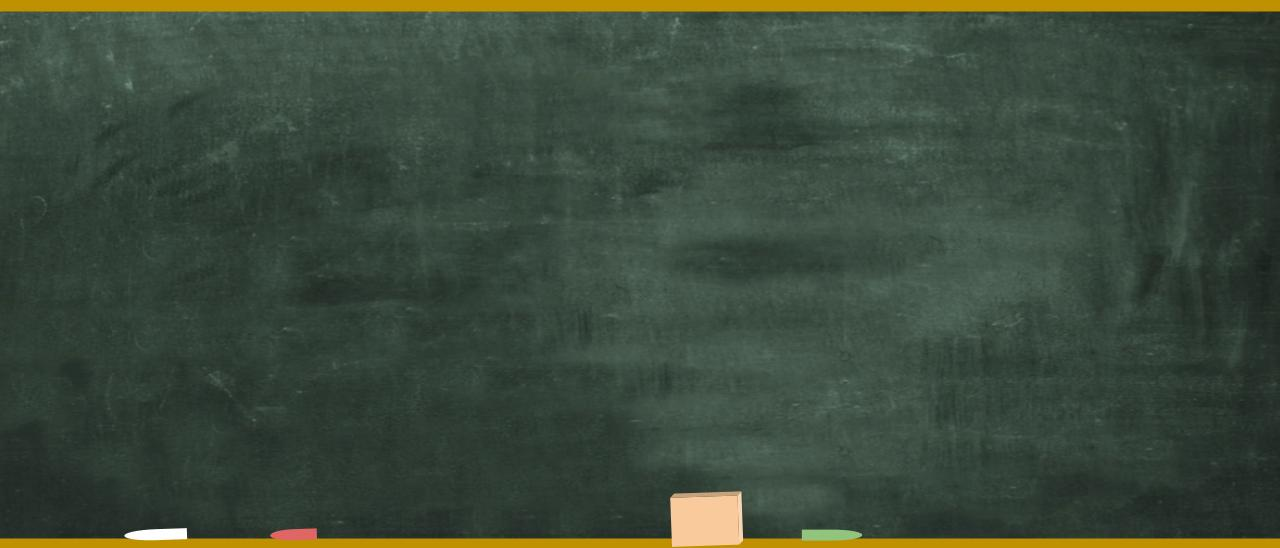
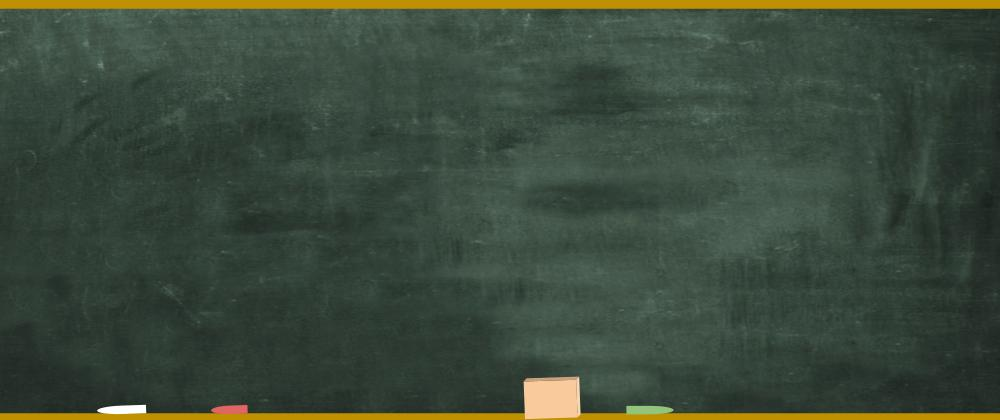
smaller blackboard

diff --git a/manifesto.html b/manifesto.html
@@ -28,12 +28,6 @@
             <p class="chalk-body mt-2">
                 We distinguish ourselves from the pack not just to look interesting, but to remain effective despite of AI progress. 
             </p>
-            <p class="chalk-body mt-2">
-                "Software is not just a collection of functions; it is a manifestation of how we view the world. 
-                Efficiency is born from a raw, permeable connection between human initiative and technical sovereignty. 
-                This isn't politics—it is the operational secret behind our code. We teach you this way because 
-                knowing exactly what every line does is the only way to master the future of AI-assisted coding."
-            </p>
         </div>
     </section>
 
